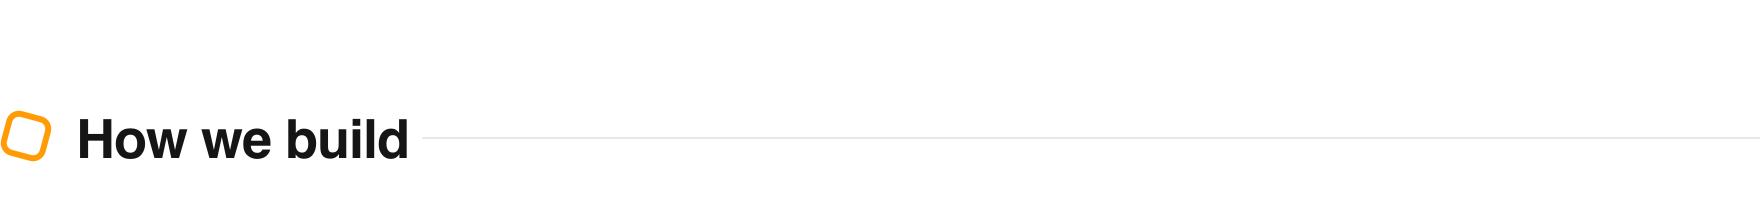
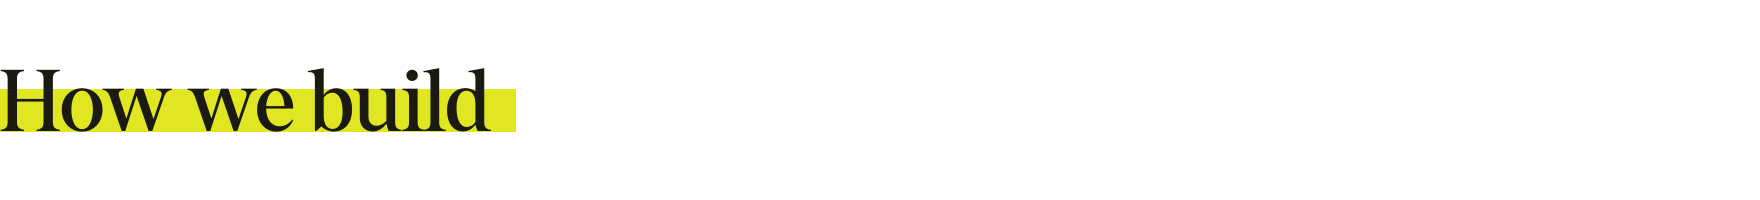
Redesign GitHub profile

Changed region(s): [[0.0, 0.33, 0.3125, 0.81]]

diff --git a/README.md b/README.md
@@ -10,7 +10,7 @@ organisation as a whole.
 | Path                | What it does                                                                                                         |
 |:--------------------|:---------------------------------------------------------------------------------------------------------------------|
 | `profile/README.md` | The page shown at [github.com/teya-engineering](https://github.com/teya-engineering). This is the public front door. |
-| `profile/assets/`   | Branded images for that page, plus the SVG sources they were rendered from.                                          |
+| `profile/assets/`   | Branded images for that page.                                                                                        |
 
 Note that `profile/README.md` is the one that renders publicly. This root file
 is only visible to people who open the repo directly.
@@ -29,21 +29,8 @@ documentation.
 
 ## Changing profile artwork
 
-The images are rendered from the SVGs next to them, so edit the SVG rather than
-the PNG. Render every asset at its source size:
-
-```sh
-cd profile/assets
-for source in *.svg; do
-  rsvg-convert -o "${source%.svg}.png" "$source"
-done
-```
-
-`rsvg-convert` comes from `librsvg` (`brew install librsvg`). Any SVG renderer
-works, as long as the output keeps the dimensions declared in each SVG. The
-artwork is rendered at two times its display size, except for the banner, which
-is 2400px wide.
-
-Figtree must be installed before rendering because the profile artwork uses it.
-Keep the image names stable so the links in `profile/README.md` continue to
-work.
+Replace the exported PNG files in `profile/assets` and keep their names stable
+so the links in `profile/README.md` continue to work. The artwork is rendered
+at two times its display size. The banner is 2400 x 682 pixels, section headings
+are 1760 x 200 pixels, the technology strip is 1330 x 78 pixels, and the hiring
+panel is 1760 x 655 pixels.

diff --git a/profile/README.md b/profile/README.md
@@ -1,9 +1,5 @@
 <p align="center">
-  <picture>
-    <source media="(prefers-color-scheme: dark)" srcset="https://raw.githubusercontent.com/teya-engineering/.github/main/profile/assets/banner-dark.png">
-    <source media="(prefers-color-scheme: light)" srcset="https://raw.githubusercontent.com/teya-engineering/.github/main/profile/assets/banner-light.png">
-    <img alt="Teya Engineering - open source from the team building payments for local business" src="https://raw.githubusercontent.com/teya-engineering/.github/main/profile/assets/banner-light.png" width="880">
-  </picture>
+  <img alt="Teya Engineering - open source from the team building payments for local business" src="https://raw.githubusercontent.com/teya-engineering/.github/main/profile/assets/banner.png" width="880">
 </p>
 
 <p align="center">
